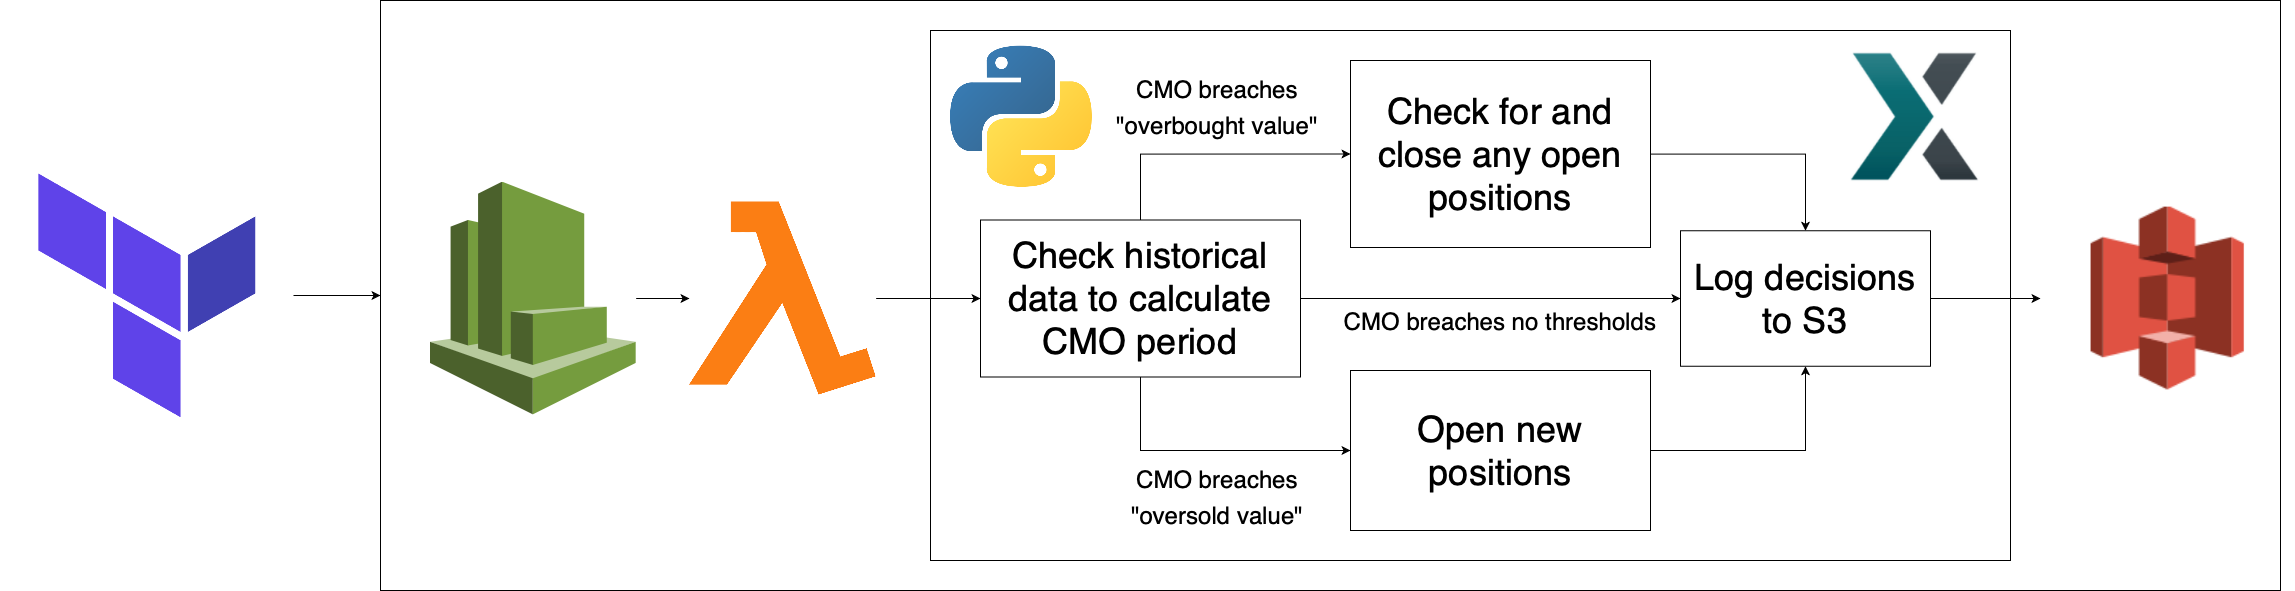
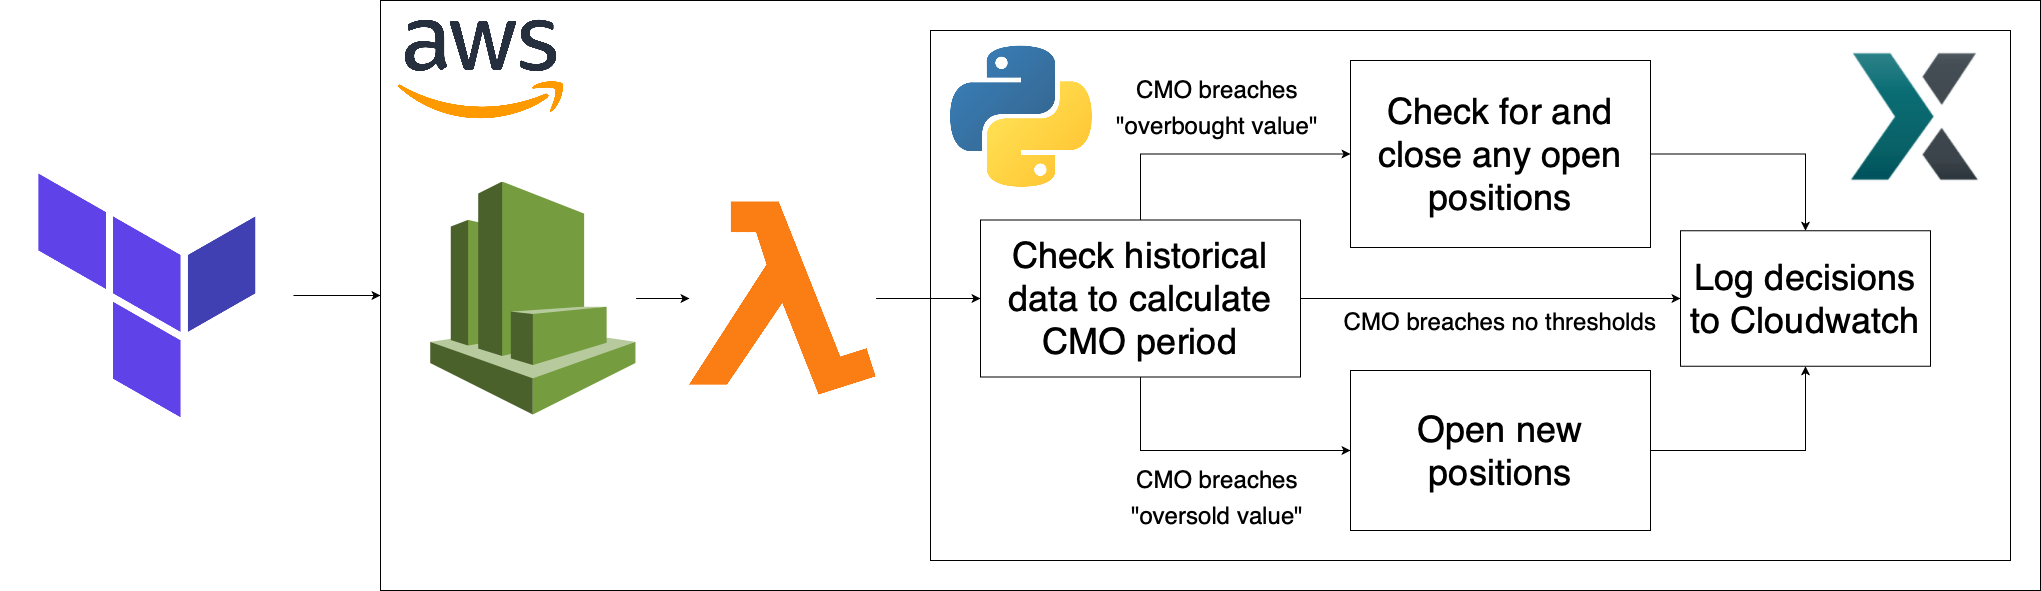
updating docs: https://www.youtube.com/channel/UCO_ge4iFmbKay3HVYNd7dAQ

diff --git a/README.md b/README.md
@@ -2,6 +2,7 @@
 
 ## Contents
 0. [Introduction](#introduction)
+1. [Template Architecture](#architecture)
 1. [Trading Strategies](#strategies)
 1. [Usage](#usage)
 2. [Future Improvements](#futureimprovements)
@@ -17,6 +18,25 @@ A project to automatically run technical analysis strategies on AWS to trade cry
 This project aims to have multiple trading strategies that can all be deployed into AWS using Terraform.
 
 You can watch YouTube videos about the project [here](https://www.youtube.com/watch?v=ee0JCfeFw1o&list=PLobCEGRAX3hZ0KqKoZ1RTlYZF-VguIhtC&index=4) 
+
+<a name="architecture"></a>
+## Project Architecture
+
+#### Repository Structure
+
+- cloud_infrastructure: this folder contains all the infrastructure as code in order to deploy trading strategies.
+- trading_strategies: each folder within trading_strategies contains all the code required to backtest, optimise and develop your trading logic. The "app" logic is what gets deployed in the generic setup.
+- trading_tools: generic pieces of code that can be used across multiple trading strategies.
+
+#### Generic Trading Architecture Overview (may differ between trading strategies)
+
+- The cloud infrastructure is deployed and managed using infrastructure as code. In this example terraform deploys all the infrastructure into AWS.
+- Cloudwatch (AWS) is the trigger which kicks off the Lambda Function (AWS) at a pre-defined frequency.
+- The Lambda function contains the trading strategy to execute trades.
+- Every decision that the Lambda takes is logged into to Cloudwatch for auditing.
+
+<img src="https://github.com/liamhartley/cryptotradingbot/blob/master/project_architecture.png" width="500px">
+
 
 <a name="strategies"></a>
 ## Trading Strategies
@@ -42,8 +62,9 @@ Please contribute any trading strategies back into this repository.
 <a name="howtocontribute"></a>
 ## How to Contribute 
 
+
 Branch or fork off from the project to create a new feature and open a PR against master when complete.
- 
+
 Please feel free to reach out to me to check if a feature isn't already in development or raise issues on GitHub.
 
 In the future I would love to see all sorts of strategies in this repo!

diff --git a/trading_strategies/poloniex_cmo_trading_strategy/README.md b/trading_strategies/poloniex_cmo_trading_strategy/README.md
@@ -27,18 +27,17 @@ The opposite is also true, overbought assets (CMO > overbought threshold) will c
 <a name="projectarchitecture"></a>
 ## Project Architecture 
 
-<img src="https://github.com/liamhartley/cryptotradingbot/blob/master/poloniex_cmo_trading_strategy/docs/cmo_trading_architecture.png" width="500px">
+<img src="https://github.com/liamhartley/cryptotradingbot/blob/master/trading_strategies/poloniex_cmo_trading_strategy/docs/cmo_trading_architecture.png" width="500px">
 
----
 #### Architecture Overview
 
-- Terraform deploys all of the infrastructure into AWS
+- Terraform deploys all the infrastructure into AWS
 - Cloudwatch is the trigger which kicks off the Lambda function
 - The Lambda function contains the trading logic which is written in Python
 - This logic uses the Poloniex API to connect to the exchange
-- Every decision that the Lambda takes is logged into an S3 bucket for auditing
+- Every decision that the Lambda takes is logged into to Cloudwatch for auditing
 
----
+
 
 <a name="setup"></a>
 ## Setup 

diff --git a/trading_strategies/template_strategy/README.md b/trading_strategies/template_strategy/README.md
@@ -25,9 +25,12 @@ The trading strategy uses XXX
 <a name="projectarchitecture"></a>
 ## Project Architecture 
 
-[comment]: <> (<img src="https://github.com/liamhartley/cryptotradingbot/blob/master/poloniex_cmo_trading_strategy/docs/cmo_trading_architecture.png" width="500px">)
+
+[comment]: <> (example of how to reference an image in the repository <img src="https://github.com/liamhartley/cryptotradingbot/blob/master/poloniex_cmo_trading_strategy/docs/cmo_trading_architecture.png" width="500px">)
 
 ---
+
+I reccomend using draw.io for your architecture diagrams.
 
 #### Architecture Overview
 - X 
